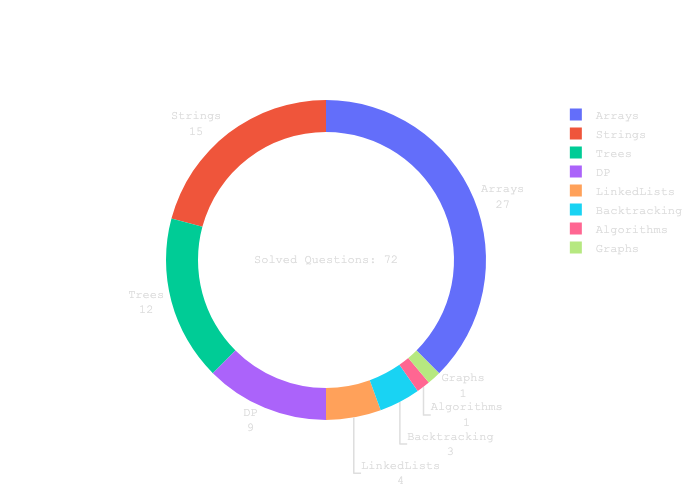
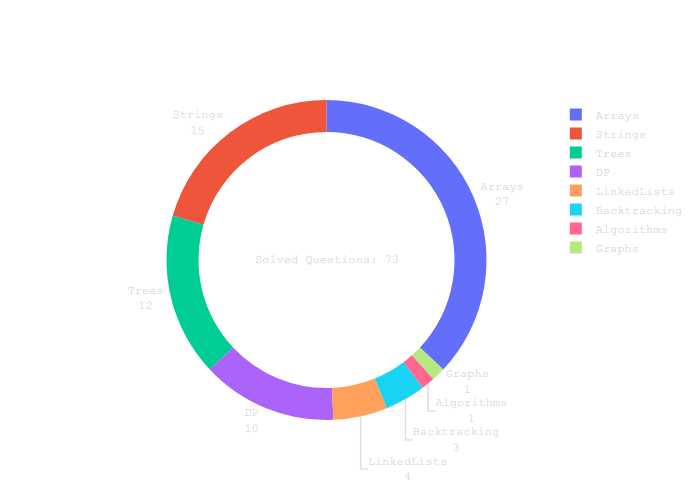
jump game 2

diff --git a/DP/jumpGame.py b/DP/jumpGame.py
@@ -1,0 +1,19 @@
+from typing import List
+
+
+def jumpGameII(nums: List[int]) -> int:
+    N = len(nums)
+    jumps = max_end = cur_end = 0
+    for i in range(N - 1):
+        max_reach = nums[i] + i
+        max_end = max(max_end, max_reach)
+        if i == cur_end:
+            jumps += 1
+            cur_end = max_end
+    return jumps
+
+
+print(jumpGameII([2, 3, 1, 1, 4]))
+print(jumpGameII([2, 3, 0, 1, 4]))
+print(jumpGameII([4, 1, 1, 3, 1, 1, 1]))
+print(jumpGameII([1, 1, 1, 1]))
